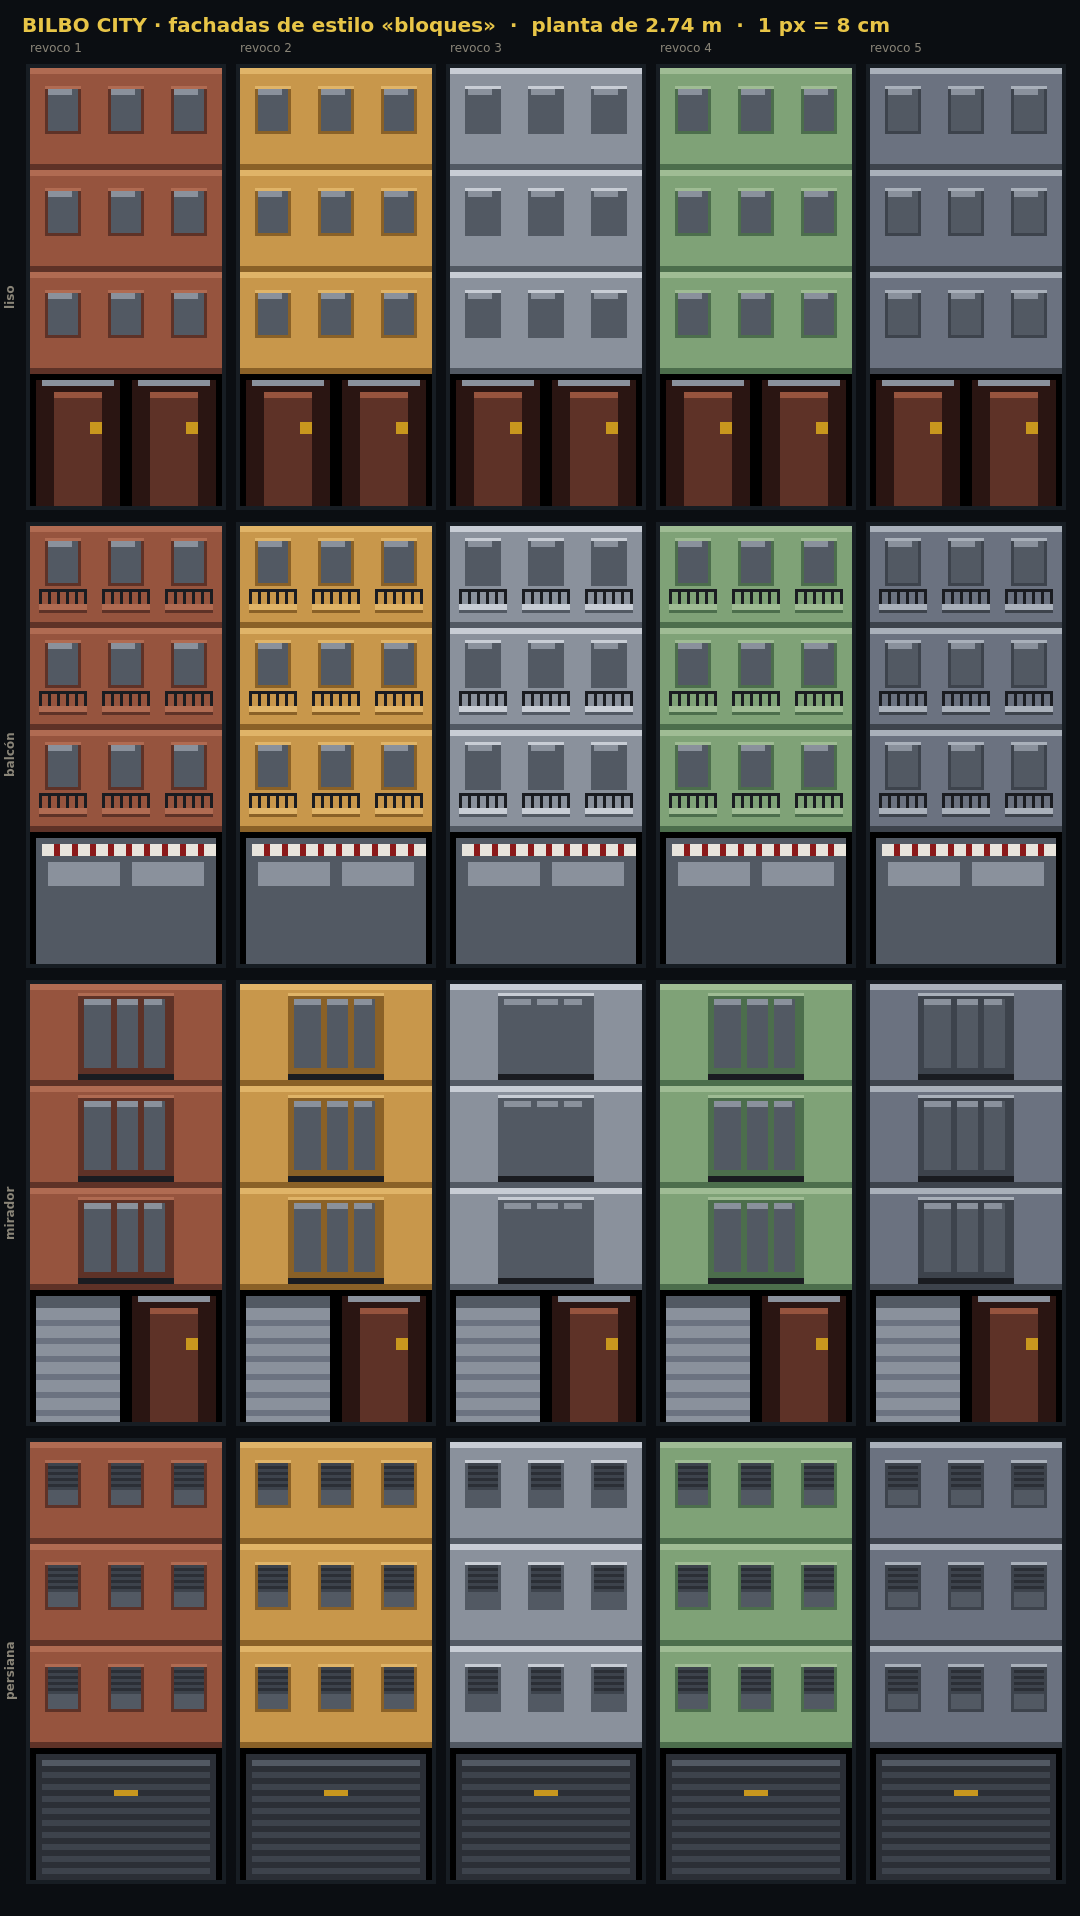
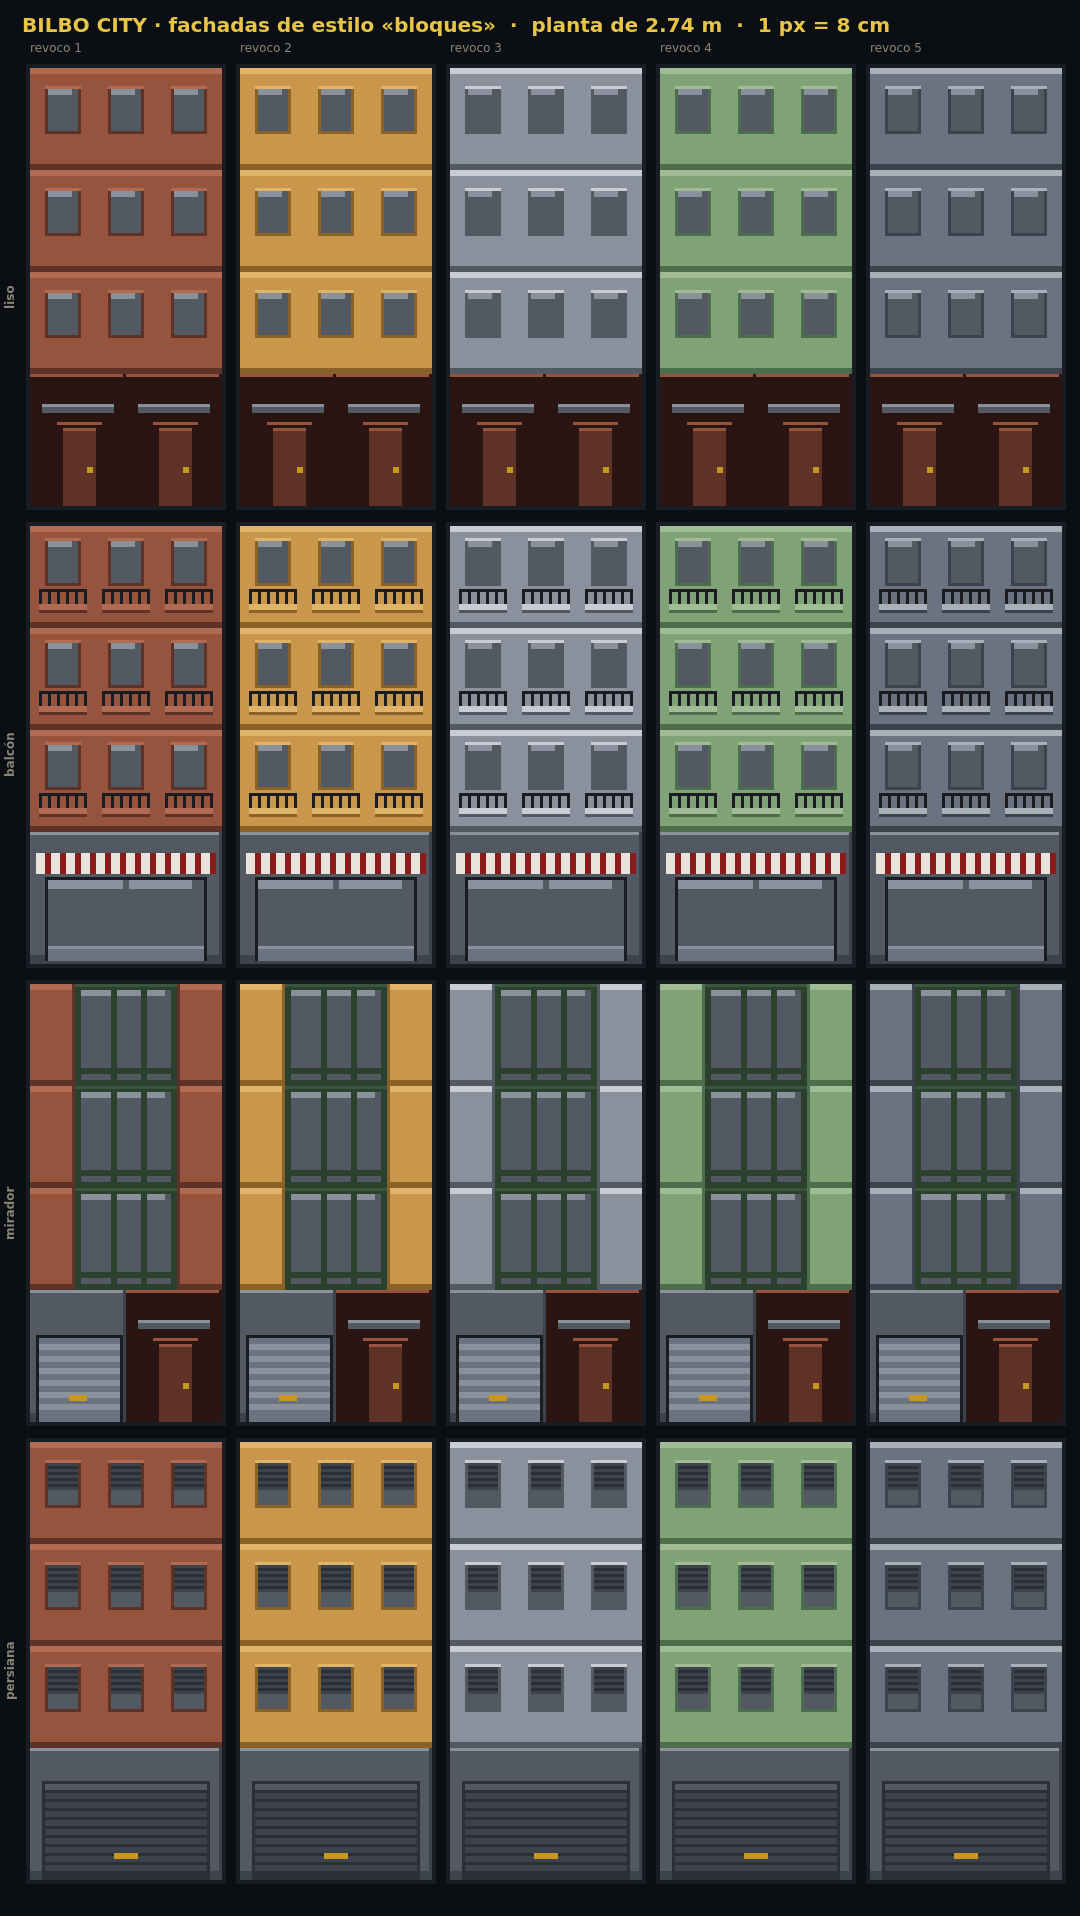
fix(bilbo-city): los bajos, a medida real — una puerta ya no mide tres metros
La fachada se veía falsa aunque cada pieza por separado pareciese correcta, y el
motivo era de proporción entre piezas: la ventana medía 0,81 × 1,13 m y la hoja
de un portal, **1,29 × 3,06 m**. Una puerta de tres metros al lado de una ventana
de uno. Los bajos se dibujaron en espacio de 32 y nunca se pasaron a metros.

Ahora se dibujan en la medida final, con 1 px = 8 cm y un bajo de 3,55 m:

  hoja de puerta       0,89 × 2,10 m, y 1,45 m de muro con su dintel encima
  escaparate           4,2 × 2,2 m, zócalo de 40 cm, rótulo de 50 y toldo
  portón de garaje     2,2 × 2,3 m
  portón industrial    4,4 × 3,0 m

Y con la foto de Zubiarte delante, dos correcciones al Ensanche:

- **El mirador es una columna continua, no un balcón acristalado por planta.**
  Sube la fachada entera de la primera al alero, así que la caja ocupa la banda
  de arriba abajo y, apiladas, forman la galería. Su color no sale del revoco
  sino de la carpintería —verde oscuro sobre revoco claro—, que es la mitad de
  lo que se reconoce de una calle de aquí.
- **Los revocos del Ensanche son crema, rosa pálido y piedra clara.** Nada de
  ladrillo caravista: eso es de los bloques de los sesenta.

`VIDRIO` se usaba en los bajos antes de declararse, y el fichero reventaba al
forjar props. Subido a donde toca.

`./verificar.sh` en verde.

Claude-Session: https://claude.ai/code/session_01NtercYBRM3YRCpqKNoAo7d

Changed region(s): [[0.0306, 0.4311, 1.0, 0.7698], [0.0306, 0.1848, 1.0, 0.2771], [0.0306, 0.893, 1.0, 0.9854]]

diff --git a/bilbo-city/referencia/bilbo-city.html b/bilbo-city/referencia/bilbo-city.html
@@ -3063,8 +3063,11 @@ const PISO_BARRIO={senorial:20,denso:18,bloques:17,industrial:15,abierto:16};
    chapa. Cada edificio coge una del monton por hash, y de ahi sale que dos portales
    seguidos no sean del mismo color. */
 const REVOCO={
- senorial:  [[C.hormigon5,C.hormigon7,C.hormigon3],[C.crema,C.blanco,C.hormigonO],
-             [C.hormigon6,C.nieve,C.hormigon4]],
+ /* El Ensanche de la foto de Zubiarte: revoco crema, rosa palido y piedra clara, y el
+    mirador verde oscuro recortado encima. Nada de ladrillo caravista, que eso es de los
+    bloques de los sesenta y aqui no hay. */
+ senorial:  [[C.crema,C.blanco,C.hormigonO],[C.tez7,C.nieve,C.tez5],
+             [C.hormigon6,C.nieve,C.hormigon4],[C.hormigon5,C.hormigon7,C.hormigon3]],
  denso:     [[C.ladrillo4,C.ladrillo5,C.ladrillo2],[C.luz5,C.luz6,C.luz3],
              [C.hormigon5,C.hormigon7,C.hormigon3]],
  /* Santutxu */
@@ -3094,43 +3097,71 @@ function generarProps(){
     casilla y el estilo del barrio: en el Casco hay tasca y persiana echada; en el
     Ensanche, escaparate con toldo y portal de madera; en los bloques, más portal que
     tienda; en la industria, portones de chapa. No hay nada escrito a mano. */
- /* Cada local mide lo que mide de verdad. Iban todos a 16 px —2,58 m, el ancho de un
-    portal— y por eso un utilitario ocupaba dos escaparates: un escaparate de Bilbao mide
-    cuatro o cinco metros, no dos y medio. Ahora hay dos anchos, y la casilla se llena
-    con lo que quepa:
-      medio  (16 px = 2,58 m) portal, portal de piedra, garaje — que eso sí mide eso;
-      entero (32 px = 5,16 m) escaparate, tasca, persiana, portón y pared ciega.
-    Nada dibujado a mano: cada dibujo se pinta contra su propio ancho `w`. */
+ const VIDRIO='#3f5566', VIDRIOL='#7f9aa8', HIERRO=C.carbon;
+ /* Los bajos, a medida real. Iban dibujados en espacio de 32 y nunca se pasaron a metros:
+    la hoja de un portal medía 1,29 × 3,06 m —una puerta de tres metros— al lado de una
+    ventana de 0,81 × 1,13. Eso es lo que hacía que la fachada se viese falsa aunque cada
+    pieza por separado pareciese correcta.
+    Ahora se dibujan en la medida final. Con 1 px = 8 cm y un bajo de 3,55 m de alto:
+      hoja de puerta      0,89 × 2,10 m   (11 × 26 px)
+      dintel sobre puerta 1,45 m de muro por encima
+      escaparate          4,2 × 2,2 m, con zócalo de 40 cm y rótulo de 50
+      portón de garaje    2,2 × 2,3 m
+    Medio local son 32 px (2,58 m) y uno entero, 64 (5,16 m). */
  PROP.fachadas={};
- const local=(w,fn)=>{const c=lienzo(w*ESC,FACH_H*ESC),g=c.getContext('2d');
-  ESC_P=ESC;fn(g,w);ESC_P=1;return cuantizar(c);};
- const marco=(g,w,col)=>{P(g,0,0,w,FACH_H,C.negro);P(g,1,1,w-2,FACH_H-1,col);};
- PROP.fachadas.portal=local(16,(g,w)=>{marco(g,w,C.maderaO);
-  P(g,4,3,w-8,FACH_H-3,C.madera);P(g,4,3,w-8,1,C.maderaL);P(g,w-6,8,2,2,C.mostazaO);
-  P(g,2,1,w-4,1,C.hormigonL);});
- PROP.fachadas.portalPiedra=local(16,(g,w)=>{marco(g,w,C.hormigonO);
-  P(g,3,2,w-6,FACH_H-2,C.carbon);P(g,4,3,w-8,FACH_H-3,C.maderaO);
-  P(g,2,1,w-4,2,C.hormigonL);P(g,w-5,8,1,2,C.mostaza);});
- PROP.fachadas.garaje=local(16,(g,w)=>{marco(g,w,C.aceroO);
-  for(let y=3;y<FACH_H;y+=3)P(g,1,y,w-2,2,C.acero);
-  P(g,1,1,w-2,2,C.hormigonO);});
- PROP.fachadas.escaparate=local(32,(g,w)=>{marco(g,w,C.hormigonO);
-  P(g,2,4,w-4,FACH_H-4,'#3f5566');P(g,3,5,w-6,4,'#7f9aa8');
-  P(g,w/2-1,4,2,FACH_H-4,C.hormigonO);          /* el montante que parte el cristal */
-  P(g,2,2,w-4,2,C.rojoO);for(let i=2;i<w-2;i+=3)P(g,i,2,2,2,C.crema);});
- PROP.fachadas.tasca=local(32,(g,w)=>{marco(g,w,C.maderaO);
-  P(g,2,5,w-4,FACH_H-5,C.carbon);P(g,3,6,w-8,3,'#e8dfa8');
-  P(g,w-6,6,3,FACH_H-6,C.maderaO);              /* la puerta, a un lado del ventanal */
-  P(g,2,2,w-4,3,C.verdeO);P(g,2,2,w-4,1,C.verdeL);});
- PROP.fachadas.persiana=local(32,(g,w)=>{marco(g,w,C.grisO);
-  for(let y=2;y<FACH_H;y+=2)P(g,2,y,w-4,1,C.gris);
-  P(g,2,2,w-4,1,C.grisL);P(g,w/2-2,7,4,1,C.mostazaO);});
- PROP.fachadas.porton=local(32,(g,w)=>{marco(g,w,C.grisO);
-  P(g,1,2,w-2,FACH_H-2,C.aceroO);for(let x=2;x<w-1;x+=4)P(g,x,2,1,FACH_H-2,C.acero);
-  P(g,1,1,w-2,1,C.hormigonL);});
- PROP.fachadas.ciega=local(32,(g,w)=>{marco(g,w,C.hormigonO);
-  P(g,2,2,w-4,3,C.hormigon);
-  for(const vx of [w/4-3,w-w/4-3]){P(g,vx,7,6,5,C.carbon);P(g,vx+1,8,4,3,'#3f5566');}});
+ const AL_PUERTA=26, AN_PUERTA=11;      /* 2,10 x 0,89 m */
+ const local=(w,fn)=>{const W=w*ESC,H=FACH_H*ESC,c=lienzo(W,H),g=c.getContext('2d');
+  fn(g,W,H);return cuantizar(c);};
+ /* El paño: muro con su luz arriba, su sombra a la derecha y el zócalo sucio de abajo,
+    que es lo primero que se ensucia de una fachada a pie de calle. */
+ const pano=(g,W,H,col,cl,osc)=>{P(g,0,0,W,H,col);P(g,0,0,W,1,cl);
+  P(g,W-1,0,1,H,osc);P(g,0,H-3,W,3,osc);};
+ const puerta=(g,W,H,hoja,marco,tira)=>{const x=Math.round((W-AN_PUERTA)/2),y=H-AL_PUERTA;
+  P(g,x-2,y-2,AN_PUERTA+4,AL_PUERTA+2,marco);P(g,x-2,y-2,AN_PUERTA+4,1,tira);
+  P(g,x,y,AN_PUERTA,AL_PUERTA,hoja);P(g,x,y,AN_PUERTA,1,tira);
+  P(g,x+AN_PUERTA-3,y+13,2,2,C.mostazaO);      /* el pomo, a 1 m del suelo */
+  return {x,y};};
+ PROP.fachadas.portal=local(16,(g,W,H)=>{pano(g,W,H,C.maderaO,C.ladrillo4,C.ladrillo0);
+  puerta(g,W,H,C.madera,C.maderaO,C.maderaL);
+  P(g,4,H-AL_PUERTA-8,W-8,3,C.hormigonO);      /* el dintel */
+  P(g,4,H-AL_PUERTA-8,W-8,1,C.hormigonL);});
+ PROP.fachadas.portalPiedra=local(16,(g,W,H)=>{pano(g,W,H,C.hormigonO,C.hormigonL,C.hormigon2);
+  P(g,3,H-AL_PUERTA-6,W-6,AL_PUERTA+6,C.hormigon5);P(g,3,H-AL_PUERTA-6,W-6,2,C.hormigon7);
+  puerta(g,W,H,C.maderaO,C.carbon,C.madera);});
+ PROP.fachadas.garaje=local(16,(g,W,H)=>{pano(g,W,H,C.hormigonO,C.hormigonL,C.hormigon2);
+  const an=27,al=28,x=Math.round((W-an)/2),y=H-al;    /* 2,2 x 2,3 m */
+  P(g,x-1,y-1,an+2,al+1,C.carbon);P(g,x,y,an,al,C.aceroO);
+  for(let i=y+2;i<H-2;i+=4)P(g,x,i,an,2,C.acero);
+  P(g,x+an/2-3,y+al-9,6,2,C.mostazaO);});
+ /* Escaparate: 4,2 m de hueco, zócalo de 40 cm, rótulo de 50 y toldo encima. El montante
+    parte el cristal en dos hojas, que a cinco metros no se hace un vidrio de una pieza. */
+ PROP.fachadas.escaparate=local(32,(g,W,H)=>{pano(g,W,H,C.hormigonO,C.hormigonL,C.hormigon2);
+  const x=6,an=W-12,y=H-28,al=27;
+  P(g,x-1,y-1,an+2,al+1,C.carbon);
+  P(g,x,y,an,al-5,VIDRIO);P(g,x,y,an-4,3,VIDRIOL);
+  P(g,x+an/2-1,y,2,al-5,C.hormigonO);
+  P(g,x,H-6,an,5,C.hormigon);P(g,x,H-6,an,1,C.hormigonL);   /* zocalo */
+  P(g,2,y-9,W-4,7,C.rojoO);for(let i=2;i<W-4;i+=5)P(g,i,y-9,3,7,C.crema);});
+ PROP.fachadas.tasca=local(32,(g,W,H)=>{pano(g,W,H,C.maderaO,C.ladrillo4,C.ladrillo0);
+  const x=5,an=W-24,y=H-25;
+  P(g,x-1,y-1,an+2,20,C.carbon);P(g,x,y,an,18,'#e8dfa8');P(g,x,y,an-3,2,C.crema);
+  P(g,x,H-6,an,5,C.madera);
+  puerta(g,W+34,H,C.madera,C.maderaO,C.maderaL);            /* la puerta, a un lado */
+  P(g,2,y-10,W-4,8,C.verdeO);P(g,2,y-10,W-4,2,C.verdeL);}); /* el rotulo */
+ PROP.fachadas.persiana=local(32,(g,W,H)=>{pano(g,W,H,C.hormigonO,C.hormigonL,C.hormigon2);
+  const x=5,an=W-10,y=H-32;
+  P(g,x-1,y-1,an+2,33,C.grisO);
+  for(let i=y;i<H-2;i+=3)P(g,x,i,an,2,C.gris);
+  P(g,x,y,an,2,C.grisL);P(g,W/2-4,H-9,8,2,C.mostazaO);});
+ PROP.fachadas.porton=local(32,(g,W,H)=>{pano(g,W,H,C.grisO,C.hormigonL,C.carbon);
+  const x=4,an=W-8,y=H-37;                                   /* 4,4 x 3,0 m */
+  P(g,x-1,y-1,an+2,38,C.carbon);P(g,x,y,an,37,C.aceroO);
+  for(let i=x+2;i<x+an;i+=6)P(g,i,y+1,2,35,C.acero);
+  P(g,x,y,an,2,C.grisL);});
+ /* Pared ciega: la medianera. Una reja de ventilación y poco más. */
+ PROP.fachadas.ciega=local(32,(g,W,H)=>{pano(g,W,H,C.hormigonO,C.hormigonL,C.hormigon2);
+  for(const vx of [W/4-5,W-W/4-5]){P(g,vx,H-22,10,8,C.carbon);
+   for(let i=0;i<8;i+=2)P(g,vx+1,H-21+i,8,1,C.grisO);}});
  /* Las plantas: muro con su luz arriba a la izquierda y su sombra abajo y a la derecha,
     como todo, y dos filas de ventanas. La ventana no es un agujero negro: lleva dintel
     claro y el vidrio azulado, que es lo que la distingue de un hueco. */
@@ -3143,7 +3174,6 @@ function generarProps(){
     que hace que una calle parezca una calle es que el edificio de al lado no sea el
     mismo. El tipo lo elige el hash de la casilla, asi que sale solo y no hay nada
     escrito a mano. */
- const VIDRIO='#3f5566', VIDRIOL='#7f9aa8', HIERRO=C.carbon;
  const banda=(ph,fn)=>{const W=32*ESC,H=ph*ESC,c=lienzo(W,H),g=c.getContext('2d');
   fn(g,W,H);return cuantizar(c);};
  /* El hueco: dintel claro arriba, jamba en sombra a la derecha, vidrio con su reflejo en
@@ -3169,12 +3199,18 @@ function generarProps(){
     for(let b=0;b<AN_V+6;b+=3)P(g,x-3+b,H-13,1,5,HIERRO);});}),
   /* mirador: la galeria acristalada de Bilbao, dos huecos de frente y su canto */
   banda(ph,(g,W,H)=>{P(g,0,0,W,H,muro);P(g,0,0,W,2,muroL);P(g,0,H-2,W,2,muroO);
-   /* Un mirador por casilla: 2,6 m de frente, que es lo que vuela una galeria. */
-   const bx=Math.round((W-32)/2);
-   P(g,bx,3,32,H-7,muroO);P(g,bx,3,32,1,muroL);
-   P(g,bx+2,5,28,H-11,VIDRIO);P(g,bx+2,5,26,2,VIDRIOL);
-   for(let m=9;m<28;m+=9)P(g,bx+2+m,5,2,H-11,muroO);
-   P(g,bx,H-4,32,2,C.carbon);}),
+   /* El mirador de Bilbao no es un balcon acristalado suelto: es una columna que sube la
+      fachada entera, de la primera planta al alero, pintada de verde oscuro sobre revoco
+      claro. Por eso la caja ocupa la banda de arriba abajo, sin muro entre plantas —
+      apiladas, las bandas forman la galeria continua— y su color no sale del revoco sino
+      de la carpinteria: el contraste es la mitad de lo que se reconoce de una calle de
+      aqui. */
+   const bx=Math.round((W-34)/2), CARP=C.verde2, CARPL=C.verde3;
+   P(g,bx,0,34,H,CARP);P(g,bx,0,34,1,CARPL);
+   P(g,bx+2,2,30,H-4,VIDRIO);P(g,bx+2,2,28,2,VIDRIOL);
+   for(let m=10;m<30;m+=10)P(g,bx+2+m,2,2,H-4,CARP);
+   P(g,bx+2,H-6,30,2,CARP);                  /* el antepecho de cada planta */
+   P(g,bx-1,0,1,H,muroO);P(g,bx+34,0,1,H,muroO);}),
   /* persiana echada: media calle esta asi a media manana */
   banda(ph,(g,W,H)=>{P(g,0,0,W,H,muro);P(g,0,0,W,2,muroL);P(g,0,H-2,W,2,muroO);
    fila(g,W,x=>{hueco(g,x,7,AN_V,AL_V,muroO,muroL);
